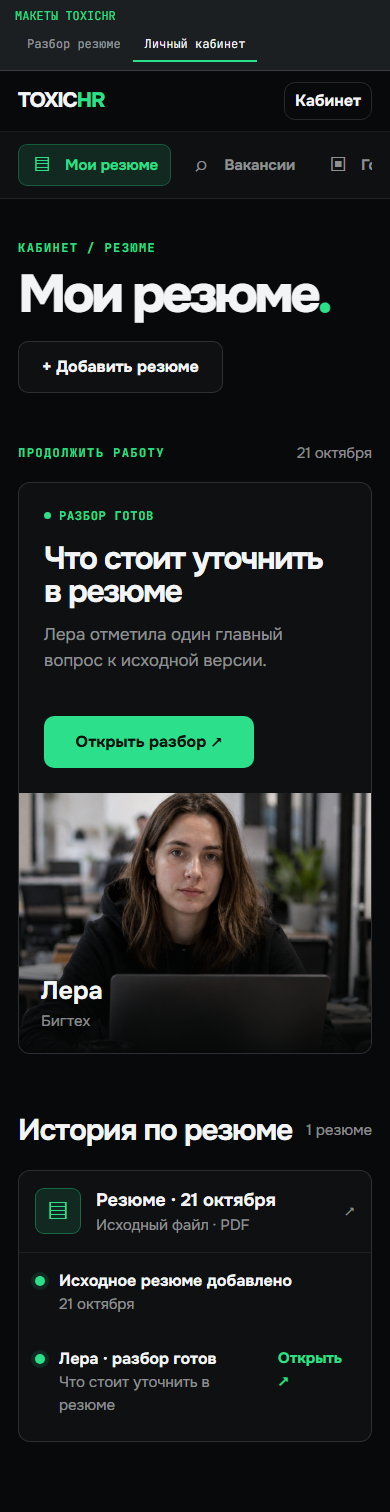
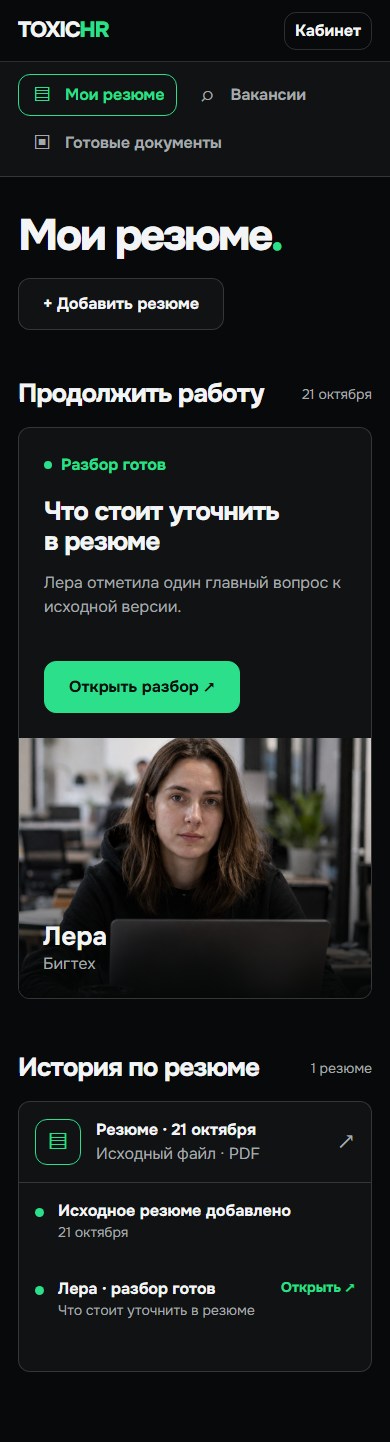
Unify visual language of report and cabinet mockups

diff --git a/prototypes/release-mockups/v2/style.css b/prototypes/release-mockups/v2/style.css
@@ -1,20 +1,102 @@
-@font-face{font-family:Onest;src:url('../../../public/fonts/onest-cyrillic.woff2') format('woff2');font-weight:100 900;unicode-range:U+0301,U+0400-045F,U+0490-0491,U+04B0-04B1,U+2116}
-@font-face{font-family:Onest;src:url('../../../public/fonts/onest-latin.woff2') format('woff2');font-weight:100 900;unicode-range:U+0000-00FF,U+0131,U+0152-0153,U+2000-206F,U+20AC,U+2122,U+2191-2193}
-@font-face{font-family:JBMono;src:url('../../../public/fonts/jbmono-cyrillic.woff2') format('woff2');font-weight:100 800;unicode-range:U+0301,U+0400-045F,U+0490-0491,U+04B0-04B1,U+2116}
-@font-face{font-family:JBMono;src:url('../../../public/fonts/jbmono-latin.woff2') format('woff2');font-weight:100 800;unicode-range:U+0000-00FF,U+2000-206F,U+20AC,U+2122,U+2191-2193}
-:root{--bg:#08090a;--metal-0:#0e1012;--metal-1:#151719;--metal-2:#1c1f22;--fg:#f2f4f5;--dim:rgba(242,244,245,.56);--hair:rgba(242,244,245,.08);--hair2:rgba(242,244,245,.14);--tox:#2ce08b;--tox-dim:rgba(44,224,139,.12);--crit:#ff5647}
-*{box-sizing:border-box}html{scroll-behavior:smooth}body{margin:0;background:var(--bg);color:var(--fg);font:16px/1.5 Onest,Arial,sans-serif}h1,h2,h3,p{margin:0}a{color:inherit;text-decoration:none}.screen{display:none}.screen.active{display:block}.fullstop{color:var(--tox)}.eyebrow{font:700 12px/1.4 JBMono,monospace;letter-spacing:.12em}.button{display:inline-flex;align-items:center;justify-content:center;min-height:52px;padding:0 23px;border:1px solid transparent;border-radius:10px;font-size:16px;font-weight:750;white-space:nowrap}.button.green{background:var(--tox);color:#07130d}.button.dark{background:#07130d;color:var(--tox)}.button.outline{border-color:var(--hair2);background:var(--metal-0)}
-.preview-bar{display:flex;align-items:center;gap:32px;min-height:46px;padding:0 40px;border-bottom:1px solid var(--hair2);background:var(--metal-2);font:12px JBMono,monospace}.preview-bar>span{color:var(--tox)}.preview-bar nav{display:flex;align-self:stretch}.preview-bar a{display:flex;align-items:center;padding:0 19px;border-bottom:2px solid transparent;color:var(--dim)}.preview-bar a.active{border-color:var(--tox);color:var(--fg)}.preview-bar small{margin-left:auto;color:var(--dim);font-size:12px}
-.site-header{display:flex;align-items:center;justify-content:space-between;height:72px;padding:0 40px;border-bottom:1px solid var(--hair)}.brand{font-size:21px;font-weight:800;letter-spacing:-.055em}.brand span{color:var(--tox)}.site-links{display:flex;gap:32px;color:var(--dim);font-size:15px;font-weight:700}.header-cabinet{display:grid;min-width:115px;height:42px;place-items:center;border:1px solid var(--hair2);border-radius:11px;font-weight:700}
-
-/* Разбор: без неясных оценок, только поддержанные текстом сигналы. */
-.report-wrap{width:min(1250px,calc(100% - 72px));margin:0 auto;padding:54px 0 110px}.report-hero{display:grid;grid-template-columns:minmax(0,1.35fr) minmax(330px,.65fr);gap:66px;align-items:stretch}.report-intro{padding:9px 0 15px}.topline{display:flex;align-items:center;gap:19px}.topline .eyebrow{color:var(--tox)}.test-badge{padding:5px 10px;border:1px solid rgba(240,189,112,.35);border-radius:100px;color:#f0bd70;font-size:12px;font-weight:700}.report-intro h1{margin-top:42px;font-size:clamp(58px,5.8vw,83px);font-weight:800;letter-spacing:-.065em;line-height:.98}.report-intro h1 em{color:var(--tox);font-style:normal}.lead{max-width:610px;margin-top:27px;color:var(--dim);font-size:21px;line-height:1.48}.report-meta{display:flex;align-items:center;gap:10px;margin-top:44px;font-size:15px;font-weight:650}.pulse{width:8px;height:8px;border-radius:50%;background:var(--tox)}.meta-line{width:31px;height:1px;margin:0 8px;background:var(--hair2)}.hr-portrait{position:relative;min-height:385px;overflow:hidden;border:1px solid var(--hair2);border-radius:13px;background:var(--metal-1)}.hr-portrait img{display:block;width:100%;height:100%;object-fit:cover;object-position:center 26%}.hr-portrait:after{content:'';position:absolute;inset:40% 0 0;background:linear-gradient(transparent,rgba(5,7,7,.92))}.hr-portrait>div{position:absolute;z-index:1;left:27px;right:27px;bottom:25px;display:flex;flex-direction:column}.hr-portrait b{font-size:31px;letter-spacing:-.04em}.hr-portrait span{color:var(--dim);font-size:16px}
-.assessment{display:grid;grid-template-columns:1fr 1fr;gap:12px;margin-top:24px}.assessment-item{display:flex;align-items:center;gap:19px;min-height:104px;padding:20px 23px;border:1px solid var(--hair2);border-radius:10px;background:var(--metal-0)}.assessment-mark{display:grid;flex:0 0 39px;width:39px;height:39px;place-items:center;border-radius:50%;font-size:21px;font-weight:800}.assessment-item.good .assessment-mark{background:var(--tox-dim);color:var(--tox)}.assessment-item.concern .assessment-mark{background:rgba(255,86,71,.1);color:var(--crit)}.assessment-item>div{display:flex;flex-direction:column;gap:3px}.assessment-item .eyebrow{color:var(--dim)}.assessment-item b{font-size:19px;line-height:1.25}
-.content-heading{display:flex;align-items:end;justify-content:space-between;gap:20px;margin-top:77px;padding-bottom:18px;border-bottom:1px solid var(--hair2)}.content-heading .eyebrow{color:var(--tox)}.content-heading h2{margin-top:8px;font-size:clamp(36px,3.6vw,50px);letter-spacing:-.055em;line-height:1}.heading-side{color:var(--dim);font:700 13px JBMono,monospace}.issue-card{display:grid;grid-template-columns:63px 1fr;gap:25px;padding:32px 0 36px;border-bottom:1px solid var(--hair2)}.issue-number{color:var(--tox);font:700 17px JBMono,monospace}.issue-top{display:flex;align-items:flex-start;justify-content:space-between;gap:20px}.issue-top h3{font-size:26px;letter-spacing:-.035em;line-height:1.22}.issue-tag{padding:5px 10px;border:1px solid rgba(255,86,71,.4);border-radius:100px;color:var(--crit);font-size:13px;font-weight:700;white-space:nowrap}.issue-copy>p{max-width:720px;margin-top:12px;color:var(--dim);font-size:18px;line-height:1.55}.issue-action{display:flex;gap:20px;align-items:baseline;margin-top:23px;padding:15px 20px;border-left:2px solid var(--tox);background:var(--metal-0)}.issue-action .eyebrow{min-width:125px;color:var(--tox)}.issue-action strong{font-size:17px;font-weight:650}.more-review{display:flex;justify-content:space-between;padding:22px 0;color:var(--dim);font-size:16px}.more-review span:last-child{color:var(--tox);font-weight:700}
-.improve-band{display:flex;align-items:center;justify-content:space-between;gap:35px;margin-top:54px;padding:35px 38px;border-radius:13px;background:var(--tox);color:#06130c}.improve-band .eyebrow{color:#174731}.improve-band h2{margin-top:8px;font-size:33px;letter-spacing:-.045em;line-height:1.08}.improve-band p{margin-top:8px;font-size:16px}.improve-action{display:flex;flex-direction:column;align-items:flex-end;gap:7px;white-space:nowrap}.improve-action strong{font-size:30px;letter-spacing:-.04em}.report-footer{display:flex;align-items:center;justify-content:space-between;gap:20px;margin-top:39px}.report-footer>span{font-size:19px;font-weight:700}.mini-people{display:flex;gap:10px}.mini-people>span{display:flex;align-items:center;gap:8px;padding:7px 12px;border:1px solid var(--hair2);border-radius:9px;background:var(--metal-0);font-size:14px}.mini-people img{width:30px;height:30px;object-fit:cover;object-position:center 20%;border-radius:6px}
-
-/* Кабинет: только разделы с существующими данными и действиями. */
-.cabinet-layout{display:grid;grid-template-columns:250px minmax(0,1fr);width:min(1480px,100%);min-height:calc(100vh - 118px);margin:0 auto}.side-nav{display:flex;flex-direction:column;min-height:900px;padding:38px 17px;border-right:1px solid var(--hair);background:var(--metal-0)}.side-heading{padding:0 14px;color:var(--dim)}.side-nav nav{display:flex;flex-direction:column;gap:5px;margin-top:26px}.side-item{display:flex;align-items:center;gap:12px;min-height:48px;padding:0 14px;border:1px solid transparent;border-radius:9px;color:var(--dim);font-size:15px;font-weight:650}.side-item.active{border-color:rgba(44,224,139,.27);background:var(--tox-dim);color:var(--tox)}.side-icon{display:grid;width:22px;place-items:center;color:inherit;font-size:20px;font-style:normal;font-weight:400}.side-bottom{margin-top:auto;padding-top:20px;border-top:1px solid var(--hair)}.account{display:flex;flex-direction:column;margin:25px 14px 0}.account b{font-size:15px}.account small{color:var(--dim);font-size:13px}.cabinet-main{min-width:0;padding:52px clamp(28px,5vw,76px) 100px}.cabinet-head{display:flex;align-items:end;justify-content:space-between;gap:20px}.cabinet-head .eyebrow{color:var(--tox)}.cabinet-head h1{margin-top:9px;font-size:clamp(53px,5vw,72px);font-weight:800;letter-spacing:-.065em;line-height:1}.cabinet-head .button{margin-bottom:6px}.section-title{display:flex;align-items:center;justify-content:space-between;margin-top:55px;margin-bottom:17px}.section-title .eyebrow{color:var(--tox)}.section-title>span:last-child{color:var(--dim);font-size:15px}.resume-feature{display:grid;grid-template-columns:minmax(0,1.3fr) minmax(260px,.7fr);height:355px;overflow:hidden;border:1px solid var(--hair2);border-radius:12px;background:var(--metal-0)}.feature-copy{display:flex;flex-direction:column;align-items:flex-start;padding:30px 36px}.ready{display:flex;align-items:center;gap:8px;color:var(--tox);font:700 12px JBMono,monospace;letter-spacing:.06em;text-transform:uppercase}.ready i{width:7px;height:7px;border-radius:50%;background:var(--tox)}.feature-copy h2{margin-top:18px;font-size:clamp(32px,3vw,43px);letter-spacing:-.05em;line-height:1.06}.feature-copy p{margin-top:13px;color:var(--dim);font-size:17px}.feature-copy .button{min-width:210px;margin-top:auto}.feature-photo{position:relative;overflow:hidden}.feature-photo img{position:absolute;inset:0;display:block;width:100%;height:100%;object-fit:cover;object-position:center 26%}.feature-photo:after{content:'';position:absolute;inset:42% 0 0;background:linear-gradient(transparent,rgba(5,7,7,.92))}.feature-photo>div{position:absolute;z-index:1;left:22px;bottom:20px;display:flex;flex-direction:column}.feature-photo b{font-size:25px}.feature-photo span{color:var(--dim);font-size:15px}.history-title{margin-top:64px}.history-title h2{font-size:30px;letter-spacing:-.04em}.history-card{border:1px solid var(--hair2);border-radius:12px;background:var(--metal-0)}.history-head{display:flex;align-items:center;gap:15px;padding:20px 23px;border-bottom:1px solid var(--hair)}.file-icon{display:grid;flex:0 0 46px;width:46px;height:46px;place-items:center;border:1px solid rgba(44,224,139,.35);border-radius:9px;background:var(--tox-dim);color:var(--tox);font-size:25px}.history-head>div:nth-child(2){display:flex;flex-direction:column}.history-head b{font-size:18px}.history-head span{color:var(--dim);font-size:15px}.history-arrow{margin-left:auto;color:var(--tox);font-size:25px}.history-entries{padding:15px 28px 12px}.history-entry{display:flex;align-items:flex-start;gap:14px;min-height:66px}.history-entry>i{width:10px;height:10px;flex:0 0 10px;margin-top:7px;border-radius:50%;background:var(--tox);box-shadow:0 0 0 4px var(--tox-dim)}.history-entry>div{display:flex;flex-direction:column}.history-entry b{font-size:16px}.history-entry span{color:var(--dim);font-size:15px}.entry-action{margin-left:auto;color:var(--tox)!important;font-weight:700}
-
-@media(max-width:1050px){.site-links{gap:15px}.report-hero{gap:30px}.report-intro h1{font-size:60px}.cabinet-layout{grid-template-columns:215px minmax(0,1fr)}.side-nav{padding-right:10px;padding-left:10px}.cabinet-main{padding-right:30px;padding-left:30px}.resume-feature{grid-template-columns:1fr 250px}}
-@media(max-width:700px){.preview-bar{flex-wrap:wrap;gap:4px;padding:8px 15px}.preview-bar nav{order:3;width:100%}.preview-bar a{padding:8px 12px}.preview-bar small{display:none}.site-header{height:61px;padding:0 18px}.site-links{display:none}.header-cabinet{min-width:88px;height:38px}.report-wrap{width:calc(100% - 36px);padding-top:32px}.report-hero{grid-template-columns:1fr}.report-intro h1{margin-top:27px;font-size:clamp(46px,10vw,62px)}.lead{font-size:18px}.report-meta{margin-top:25px}.hr-portrait{height:350px;min-height:0}.assessment{grid-template-columns:1fr}.assessment-item{min-height:90px}.content-heading{margin-top:60px}.content-heading h2{font-size:37px}.issue-card{grid-template-columns:1fr;gap:10px}.issue-top{flex-direction:column;gap:12px}.issue-top h3{font-size:24px}.issue-action{flex-direction:column;gap:7px}.improve-band{align-items:stretch;flex-direction:column;padding:27px}.improve-action{align-items:flex-start}.report-footer{align-items:flex-start;flex-direction:column}.mini-people{flex-wrap:wrap}.cabinet-layout{display:block}.side-nav{min-height:0;padding:12px 18px;border-right:0;border-bottom:1px solid var(--hair)}.side-heading,.side-bottom{display:none}.side-nav nav{flex-direction:row;gap:6px;overflow:auto;margin:0}.side-item{flex:0 0 auto;min-height:42px;padding:0 12px;white-space:nowrap}.cabinet-main{padding:36px 18px 70px}.cabinet-head{align-items:flex-start;flex-direction:column}.cabinet-head h1{font-size:53px}.section-title{margin-top:43px}.resume-feature{grid-template-columns:1fr;height:auto}.feature-copy{min-height:310px;padding:25px}.feature-photo{height:260px}.history-title{margin-top:54px}.history-head{padding:16px}.history-entries{padding:16px}.history-entry{min-height:78px}}
+.report-wrap { width: min(1250px, calc(100% - 72px)); margin: auto; padding: 54px 0 110px; }
+.report-hero { display: grid; grid-template-columns: minmax(0, 1.35fr) minmax(330px, .65fr); gap: 66px; }
+.report-intro { display: flex; flex-direction: column; justify-content: center; padding: 10px 0; }
+.lead { max-width: 610px; margin-top: 26px; color: var(--muted); }
+.report-meta { display: flex; align-items: center; gap: 10px; margin-top: 34px; }
+.pulse, .ready i { width: 8px; height: 8px; border-radius: 50%; background: var(--accent); }
+.hr-portrait, .feature-photo { position: relative; overflow: hidden; border: 1px solid var(--border); border-radius: var(--radius); background: var(--surface); }
+.hr-portrait { height: 385px; }
+.hr-portrait img, .feature-photo img { width: 100%; height: 100%; object-fit: cover; object-position: center 26%; }
+.hr-portrait::after, .feature-photo::after { content: ''; position: absolute; inset: 45% 0 0; background: linear-gradient(transparent, rgba(5, 7, 7, .94)); }
+.hr-portrait > div, .feature-photo > div { position: absolute; z-index: 1; right: 24px; bottom: 22px; left: 24px; display: flex; flex-direction: column; }
+.hr-portrait b, .feature-photo b { font-size: var(--type-heading); line-height: 1.16; }
+.hr-portrait span, .feature-photo span { color: var(--muted); }
+.assessment { display: grid; grid-template-columns: 1fr 1fr; gap: 12px; margin-top: 24px; }
+.assessment-item { display: flex; min-height: 105px; align-items: center; gap: 20px; padding: 22px; border: 1px solid var(--border); border-radius: var(--radius); background: var(--surface); }
+.assessment-mark { display: grid; flex: 0 0 40px; width: 40px; height: 40px; place-items: center; border: 1px solid var(--border); border-radius: 50%; font-weight: 800; }
+.assessment-item.good .assessment-mark { border-color: var(--accent); color: var(--accent); }
+.assessment-item > div { display: flex; flex-direction: column; gap: 2px; }
+.assessment-label { color: var(--muted); }
+.assessment-item b { font-weight: 700; }
+.content-heading { margin-top: 76px; padding-bottom: 20px; border-bottom: 1px solid var(--border); }
+.issue-card { padding: 28px 0 32px; border-bottom: 1px solid var(--border); }
+.issue-copy > p { max-width: 760px; margin-top: 14px; color: var(--muted); }
+.issue-action { margin-top: 24px; padding: 18px 22px; border-left: 2px solid var(--accent); background: var(--surface); }
+.issue-action strong { font-weight: 700; }
+.more-review { display: flex; justify-content: space-between; gap: 16px; padding: 22px 0; }
+.more-review span:last-child { color: var(--accent); font-weight: 700; }
+.improve-band { display: flex; align-items: center; justify-content: space-between; gap: 32px; margin-top: 54px; padding: 35px 38px; border-radius: var(--radius); background: var(--accent); color: var(--accent-dark); }
+.improve-band p { margin-top: 10px; }
+.improve-action { display: flex; flex-direction: column; align-items: flex-end; gap: 10px; white-space: nowrap; }
+.improve-action strong { font-size: var(--type-heading); }
+.report-footer { display: flex; align-items: center; justify-content: space-between; gap: 20px; margin-top: 40px; }
+.report-footer > span { font-weight: 700; }
+.mini-people { display: flex; gap: 10px; }
+.mini-people > span { display: flex; align-items: center; gap: 9px; padding: 8px 12px; border: 1px solid var(--border); border-radius: var(--radius); background: var(--surface); }
+.mini-people img { width: 32px; height: 32px; border-radius: 6px; object-fit: cover; object-position: center 20%; }
+.cabinet-layout { display: grid; grid-template-columns: 250px minmax(0, 1fr); width: min(1480px, 100%); min-height: calc(100vh - 72px); margin: auto; }
+.side-nav { display: flex; min-height: 900px; flex-direction: column; padding: 38px 17px; border-right: 1px solid var(--border); background: var(--surface); }
+.side-nav nav { display: flex; flex-direction: column; gap: 5px; }
+.side-item { display: flex; min-height: 48px; align-items: center; gap: 12px; padding: 0 14px; border: 1px solid transparent; border-radius: var(--radius); color: var(--muted); font-weight: 650; }
+.side-item.active { border-color: var(--accent); color: var(--accent); }
+.side-icon { display: grid; width: 22px; place-items: center; font-size: 21px; font-style: normal; font-weight: 400; }
+.side-bottom { margin-top: auto; padding-top: 20px; border-top: 1px solid var(--border); }
+.account { display: flex; flex-direction: column; margin: 24px 14px 0; }
+.account b { font-weight: 700; }
+.cabinet-main { min-width: 0; padding: 52px clamp(28px, 5vw, 76px) 100px; }
+.cabinet-head { display: flex; align-items: end; justify-content: space-between; gap: 20px; }
+.cabinet-head .button { margin-bottom: 6px; }
+.section-title { display: flex; align-items: center; justify-content: space-between; gap: 16px; margin: 55px 0 18px; }
+.resume-feature { display: grid; grid-template-columns: minmax(0, 1.3fr) minmax(260px, .7fr); height: 355px; overflow: hidden; border: 1px solid var(--border); border-radius: var(--radius); background: var(--surface); }
+.feature-copy { display: flex; flex-direction: column; align-items: flex-start; padding: 30px 36px; }
+.ready { display: flex; align-items: center; gap: 9px; color: var(--accent); font-weight: 700; }
+.feature-copy h2 { margin-top: 20px; }
+.feature-copy p { margin-top: 14px; color: var(--muted); }
+.feature-copy .button { margin-top: auto; }
+.feature-photo { border: 0; border-radius: 0; }
+.feature-photo img { position: absolute; inset: 0; }
+.history-title { margin-top: 64px; }
+.history-card { border: 1px solid var(--border); border-radius: var(--radius); background: var(--surface); }
+.history-head { display: flex; align-items: center; gap: 15px; padding: 20px 23px; border-bottom: 1px solid var(--border); }
+.file-icon { display: grid; flex: 0 0 46px; width: 46px; height: 46px; place-items: center; border: 1px solid var(--accent); border-radius: var(--radius); color: var(--accent); font-size: 24px; }
+.history-head > div:nth-child(2), .history-entry > div { display: flex; flex-direction: column; }
+.history-head b, .history-entry b { font-weight: 700; }
+.history-head span { color: var(--muted); }
+.history-arrow { margin-left: auto; color: var(--accent); font-size: 25px; }
+.history-entries { padding: 16px 28px 12px; }
+.history-entry { display: flex; min-height: 68px; align-items: flex-start; gap: 14px; }
+.history-entry > i { flex: 0 0 9px; width: 9px; height: 9px; margin-top: 9px; border-radius: 50%; background: var(--accent); }
+.entry-action { margin-left: auto; color: var(--accent) !important; font-weight: 700; }
+@media (max-width: 1050px) {
+  .report-hero { gap: 30px; }
+  .cabinet-layout { grid-template-columns: 215px minmax(0, 1fr); }
+  .side-nav { padding-right: 10px; padding-left: 10px; }
+  .cabinet-main { padding-right: 30px; padding-left: 30px; }
+  .resume-feature { grid-template-columns: 1fr 250px; }
+}
+@media (max-width: 700px) {
+  .report-wrap { width: calc(100% - 36px); padding-top: 32px; }
+  .report-hero { grid-template-columns: 1fr; }
+  .hr-portrait { height: 350px; }
+  .assessment { grid-template-columns: 1fr; }
+  .content-heading { margin-top: 60px; }
+  .issue-card { padding-top: 24px; }
+  .improve-band { align-items: stretch; flex-direction: column; padding: 27px; }
+  .improve-action { align-items: flex-start; }
+  .report-footer { align-items: flex-start; flex-direction: column; }
+  .mini-people { flex-wrap: wrap; }
+  .cabinet-layout { display: block; }
+  .side-nav { min-height: 0; padding: 12px 18px; border-right: 0; border-bottom: 1px solid var(--border); }
+  .side-nav nav { flex-direction: row; flex-wrap: wrap; gap: 6px; }
+  .side-item { flex: 0 0 auto; min-height: 42px; padding: 0 12px; white-space: nowrap; }
+  .side-bottom { display: none; }
+  .cabinet-main { padding: 36px 18px 70px; }
+  .cabinet-head { align-items: flex-start; flex-direction: column; }
+  .section-title { margin-top: 43px; }
+  .resume-feature { grid-template-columns: 1fr; height: auto; }
+  .feature-copy { min-height: 310px; padding: 25px; }
+  .feature-photo { height: 260px; }
+  .history-title { margin-top: 54px; }
+  .history-head, .history-entries { padding: 16px; }
+  .history-entry { min-height: 78px; }
+}

diff --git a/prototypes/release-mockups/v2/index.html b/prototypes/release-mockups/v2/index.html
@@ -3,44 +3,43 @@
 <head>
   <meta charset="utf-8">
   <meta name="viewport" content="width=device-width, initial-scale=1">
-  <title>ToxicHR — новые макеты</title>
+  <title>ToxicHR — разбор резюме</title>
+  <link rel="stylesheet" href="system.css">
   <link rel="stylesheet" href="style.css">
 </head>
 <body>
-  <div class="preview-bar"><span>МАКЕТЫ TOXICHR</span><nav aria-label="Выбор макета"><a href="#report" data-view="report">Разбор резюме</a><a href="#cabinet" data-view="cabinet">Личный кабинет</a></nav><small>Локальный дизайн · без подключения к сервису</small></div>
-  <header class="site-header"><a class="brand" href="#report">TOXIC<span>HR</span></a><div class="site-links"><span>HR-состав</span><span>Разобрать вакансию</span><span>Цены</span></div><span class="header-cabinet">Кабинет</span></header>
+  <header class="site-header"><a class="brand" href="#report">TOXIC<span>HR</span></a><div class="site-links"><span>HR-состав</span><span>Разобрать вакансию</span><span>Цены</span></div><a class="header-cabinet" href="#cabinet">Кабинет</a></header>
   <main>
-    <section class="screen report-screen" data-screen="report" aria-label="Новый макет разбора резюме">
+    <section class="screen report-screen" data-screen="report" aria-label="Разбор резюме">
       <div class="report-wrap">
         <div class="report-hero">
           <div class="report-intro">
-            <div class="topline"><span class="eyebrow">РАЗБОР РЕЗЮМЕ · ЛЕРА</span><span class="test-badge">Тестовый ответ</span></div>
             <h1>Что стоит <em>уточнить</em><br>в резюме<span class="fullstop">.</span></h1>
             <p class="lead">Опыт виден. Но по текущему тексту трудно понять, какую часть работы сделал именно ты и что получилось в итоге.</p>
-            <div class="report-meta"><span class="pulse"></span><span>Лера · Бигтех</span><span class="meta-line"></span><span>Разбор готов</span></div>
+            <div class="report-meta"><span class="pulse"></span><span>Лера · разбор готов</span></div>
           </div>
           <div class="hr-portrait"><img src="../../../public/hr/lera.jpg" alt="Лера, HR из бигтеха"><div><b>Лера</b><span>Свайпает карьеру влево</span></div></div>
         </div>
 
         <div class="assessment" aria-label="Главное по результату">
-          <div class="assessment-item good"><span class="assessment-mark">✓</span><div><span class="eyebrow">УЖЕ ЕСТЬ</span><b>Опыт и сфера работы понятны</b></div></div>
-          <div class="assessment-item concern"><span class="assessment-mark">!</span><div><span class="eyebrow">ТРЕБУЕТ УТОЧНЕНИЯ</span><b>Личный вклад и результат</b></div></div>
+          <div class="assessment-item good"><span class="assessment-mark">✓</span><div><span class="assessment-label">Уже есть</span><b>Опыт и сфера работы понятны</b></div></div>
+          <div class="assessment-item concern"><span class="assessment-mark">!</span><div><span class="assessment-label">Нужно уточнить</span><b>Личный вклад и результат</b></div></div>
         </div>
 
-        <div class="content-heading"><div><span class="eyebrow">ГЛАВНОЕ ЗАМЕЧАНИЕ</span><h2>Что мешает отклику</h2></div><span class="heading-side">01 / 01</span></div>
-        <article class="issue-card"><span class="issue-number">01</span><div class="issue-copy"><div class="issue-top"><h3>Непонятен результат твоей работы</h3><span class="issue-tag">Нужно уточнить</span></div><p>В резюме описан процесс, но не показано, к чему он привёл и за что отвечал именно ты.</p><div class="issue-action"><span class="eyebrow">ЧТО ДОБАВИТЬ</span><strong>Задачу, своё действие и конкретный итог.</strong></div></div></article>
+        <div class="content-heading"><h2>Что мешает отклику</h2></div>
+        <article class="issue-card"><div class="issue-copy"><h3>Непонятен результат твоей работы</h3><p>В резюме описан процесс, но не показано, к чему он привёл и за что отвечал именно ты.</p><div class="issue-action"><strong>Добавь задачу, своё действие и конкретный итог.</strong></div></div></article>
 
         <div class="more-review"><span>Полный комментарий Леры</span><span>Показать ↓</span></div>
-        <div class="improve-band"><div><span class="eyebrow">СЛЕДУЮЩИЙ ШАГ</span><h2>Соберём новую версию резюме</h2><p>Уточним факты и перепишем слабое место без выдуманных достижений.</p></div><div class="improve-action"><strong>199 ₽</strong><span class="button dark">Исправить резюме ↗</span></div></div>
+        <div class="improve-band"><div><h2>Соберём новую версию резюме</h2><p>Уточним факты и перепишем слабое место без выдуманных достижений.</p></div><div class="improve-action"><strong>199 ₽</strong><span class="button dark">Исправить резюме ↗</span></div></div>
         <div class="report-footer"><span>Другой взгляд на это резюме</span><div class="mini-people"><span><img src="../../../public/hr/vadik.jpg" alt="">Вадик</span><span><img src="../../../public/hr/gleb.jpg" alt="">Глеб Аркадьевич</span><span><img src="../../../public/hr/tamara.jpg" alt="">Тамара Петровна</span></div></div>
       </div>
     </section>
 
-    <section class="screen cabinet-screen" data-screen="cabinet" aria-label="Новый макет личного кабинета">
+    <section class="screen cabinet-screen" data-screen="cabinet" aria-label="Личный кабинет">
       <div class="cabinet-layout">
-        <aside class="side-nav"><span class="eyebrow side-heading">ЛИЧНЫЙ КАБИНЕТ</span><nav aria-label="Разделы кабинета"><span class="side-item active"><i class="side-icon">▤</i> Мои резюме</span><span class="side-item"><i class="side-icon">⌕</i> Вакансии</span><span class="side-item"><i class="side-icon">▣</i> Готовые документы</span></nav><div class="side-bottom"><span class="side-item"><i class="side-icon">⚙</i> Настройки</span><span class="account"><b>Мой аккаунт</b><small>Приватность и данные</small></span></div></aside>
-        <div class="cabinet-main"><div class="cabinet-head"><div><span class="eyebrow">КАБИНЕТ / РЕЗЮМЕ</span><h1>Мои резюме<span class="fullstop">.</span></h1></div><span class="button outline">+ Добавить резюме</span></div>
-          <div class="section-title"><span class="eyebrow">ПРОДОЛЖИТЬ РАБОТУ</span><span>21 октября</span></div>
+        <aside class="side-nav"><nav aria-label="Разделы кабинета"><span class="side-item active"><i class="side-icon">▤</i> Мои резюме</span><span class="side-item"><i class="side-icon">⌕</i> Вакансии</span><span class="side-item"><i class="side-icon">▣</i> Готовые документы</span></nav><div class="side-bottom"><span class="side-item"><i class="side-icon">⚙</i> Настройки</span><span class="account"><b>Мой аккаунт</b><small>Приватность и данные</small></span></div></aside>
+        <div class="cabinet-main"><div class="cabinet-head"><h1>Мои резюме<span class="fullstop">.</span></h1><span class="button outline">+ Добавить резюме</span></div>
+          <div class="section-title"><h2>Продолжить работу</h2><span>21 октября</span></div>
           <div class="resume-feature"><div class="feature-copy"><span class="ready"><i></i> Разбор готов</span><h2>Что стоит уточнить<br>в резюме</h2><p>Лера отметила один главный вопрос к исходной версии.</p><span class="button green">Открыть разбор ↗</span></div><div class="feature-photo"><img src="../../../public/hr/lera.jpg" alt="Лера, HR из бигтеха"><div><b>Лера</b><span>Бигтех</span></div></div></div>
           <div class="section-title history-title"><h2>История по резюме</h2><span>1 резюме</span></div>
           <div class="history-card"><div class="history-head"><div class="file-icon">▤</div><div><b>Резюме · 21 октября</b><span>Исходный файл · PDF</span></div><span class="history-arrow">↗</span></div><div class="history-entries"><div class="history-entry"><i></i><div><b>Исходное резюме добавлено</b><span>21 октября</span></div></div><div class="history-entry"><i></i><div><b>Лера · разбор готов</b><span>Что стоит уточнить в резюме</span></div><span class="entry-action">Открыть ↗</span></div></div></div>
@@ -49,7 +48,7 @@
     </section>
   </main>
   <script>
-    function showView(){const key=location.hash==='#cabinet'?'cabinet':'report';document.querySelectorAll('[data-screen]').forEach(n=>n.classList.toggle('active',n.dataset.screen===key));document.querySelectorAll('[data-view]').forEach(n=>n.classList.toggle('active',n.dataset.view===key));document.title=`ToxicHR — макет ${key==='cabinet'?'кабинета':'разбора'}`;scrollTo(0,0)}
+    function showView(){const key=location.hash==='#cabinet'?'cabinet':'report';document.querySelectorAll('[data-screen]').forEach(n=>n.classList.toggle('active',n.dataset.screen===key));document.title=`ToxicHR — ${key==='cabinet'?'личный кабинет':'разбор резюме'}`;scrollTo(0,0)}
     addEventListener('hashchange',showView);showView();
   </script>
 </body>

diff --git a/prototypes/release-mockups/v2/system.css b/prototypes/release-mockups/v2/system.css
@@ -1,0 +1,51 @@
+@font-face {
+  font-family: Onest;
+  src: url('../../../public/fonts/onest-cyrillic.woff2') format('woff2');
+  font-weight: 100 900;
+  unicode-range: U+0301,U+0400-045F,U+0490-0491,U+04B0-04B1,U+2116;
+}
+@font-face {
+  font-family: Onest;
+  src: url('../../../public/fonts/onest-latin.woff2') format('woff2');
+  font-weight: 100 900;
+  unicode-range: U+0000-00FF,U+0131,U+0152-0153,U+2000-206F,U+20AC,U+2122,U+2191-2193;
+}
+:root {
+  --bg: #08090a;
+  --surface: #101214;
+  --fg: #f2f4f5;
+  --muted: #a4aaab;
+  --border: rgba(242,244,245,.16);
+  --accent: #2ce08b;
+  --accent-dark: #07130d;
+  --type-display: clamp(44px, 5vw, 72px);
+  --type-heading: 28px;
+  --type-body: 17px;
+  --type-note: 14px;
+  --radius: 12px;
+}
+* { box-sizing: border-box; }
+html { scroll-behavior: smooth; }
+body { margin: 0; background: var(--bg); color: var(--fg); font: 400 var(--type-body)/1.48 Onest, Arial, sans-serif; }
+h1, h2, h3, p { margin: 0; }
+h1 { font-size: var(--type-display); line-height: 1.02; letter-spacing: -.055em; font-weight: 800; }
+h2, h3 { font-size: var(--type-heading); line-height: 1.16; letter-spacing: -.035em; font-weight: 750; }
+a { color: inherit; text-decoration: none; }
+.screen { display: none; }
+.screen.active { display: block; }
+.fullstop, h1 em { color: var(--accent); font-style: normal; }
+.note, .account small, .section-title > span, .history-entry span { color: var(--muted); font-size: var(--type-note); }
+.button { display: inline-flex; min-height: 52px; align-items: center; justify-content: center; padding: 0 24px; border: 1px solid var(--border); border-radius: var(--radius); background: var(--surface); color: var(--fg); font: 700 var(--type-body)/1 Onest, Arial, sans-serif; white-space: nowrap; }
+.button.green { border-color: var(--accent); background: var(--accent); color: var(--accent-dark); }
+.button.dark { border-color: var(--accent-dark); background: var(--accent-dark); color: var(--accent); }
+.site-header { display: flex; height: 72px; align-items: center; justify-content: space-between; padding: 0 40px; border-bottom: 1px solid var(--border); }
+.brand { font-size: 22px; font-weight: 800; letter-spacing: -.055em; }
+.brand span { color: var(--accent); }
+.site-links { display: flex; gap: 32px; color: var(--muted); font-weight: 700; }
+.header-cabinet { display: grid; min-width: 115px; height: 42px; place-items: center; border: 1px solid var(--border); border-radius: var(--radius); font-weight: 700; }
+@media (max-width: 700px) {
+  :root { --type-display: 44px; --type-heading: 26px; --type-body: 16px; }
+  .site-header { height: 62px; padding: 0 18px; }
+  .site-links { display: none; }
+  .header-cabinet { min-width: 88px; height: 38px; }
+}

diff --git a/WORK-IN-PROGRESS.md b/WORK-IN-PROGRESS.md
@@ -6,6 +6,7 @@
 - Изменено: главная с каруселью HR и упрощённая авторизация сохранены в `7778ad9`. Добавление файла или текста только подготавливает резюме; HR выбирается явно. Кнопка «Начать разбор» находится под карточкой HR и активируется лишь после выбора HR и добавления резюме. Локальный процесс настроен; production не менялся.
 - 21.10: по скану страницы разбора подготовлены отдельные статические макеты кабинета и двух вариантов результата в `prototypes/release-mockups/`. Они не подключены к приложению; выбор направления за Product Owner.
 - 21.10: по новым визуальным референсам подготовлен второй вариант статических макетов и скриншоты в `prototypes/release-mockups/v2/`: разбор без числовых оценок и кабинет с навигацией по реальным сущностям. Это только концепция; рабочие страницы не менялись.
+- 21.10: у обоих статических макетов унифицированы шрифт, четыре типографические роли (включая мелкую дату), цвет и кнопки; удалены технические подписи и декоративные счётчики. Обновлены скриншоты для компьютера и телефона. Приложение не менялось.
 - Принято пользователем: направление крупной HR-карусели, акцентные действия с резюме и лаконичная форма входа. Финальная приёмка интеграции не зафиксирована.
 - Осталось: согласовать новый порядок запуска и итоговый интерфейс; затем по отдельным командам подготовить релиз и опубликовать. Действующий `toxichr.ru` всё ещё на прежней версии.
 - Публикация: по `docs/LAUNCH.md` вручную на REG.Cloud сервере из `/opt/toxichr` через `docker compose ... build app` и `up -d`. В репозитории GitHub Actions на push запускает только lint/typecheck; внешний автодеплой не подтверждён, поэтому push без отдельного выяснения не делать.

diff --git a/prototypes/release-mockups/v2/DESIGN-SYSTEM.md b/prototypes/release-mockups/v2/DESIGN-SYSTEM.md
@@ -1,0 +1,9 @@
+# Визуальные правила макетов
+
+Обе страницы используют `system.css`. Новые макеты подключают его до своего файла раскладки.
+
+- Один шрифт: Onest. Заголовок страницы — `h1`, заголовок блока или карточки — `h2`/`h3`, остальное — основной текст.
+- Только один мелкий размер (`--type-note`) для дат и второстепенных данных. Важный текст не мельче 16 px.
+- Цвета берутся из общих переменных: фон, поверхность, текст, приглушённый текст, граница, зелёный акцент. Статусы передаются словами, без произвольной цветовой шкалы.
+- Кнопки собираются из `.button` и её общего варианта. Радиус, граница и отступы не задаются заново на каждой странице.
+- На экране остаются только данные и действия пользователя. Не выводить технические пометки, декоративные счётчики, повторы заголовков и пояснения о том, что это макет.
